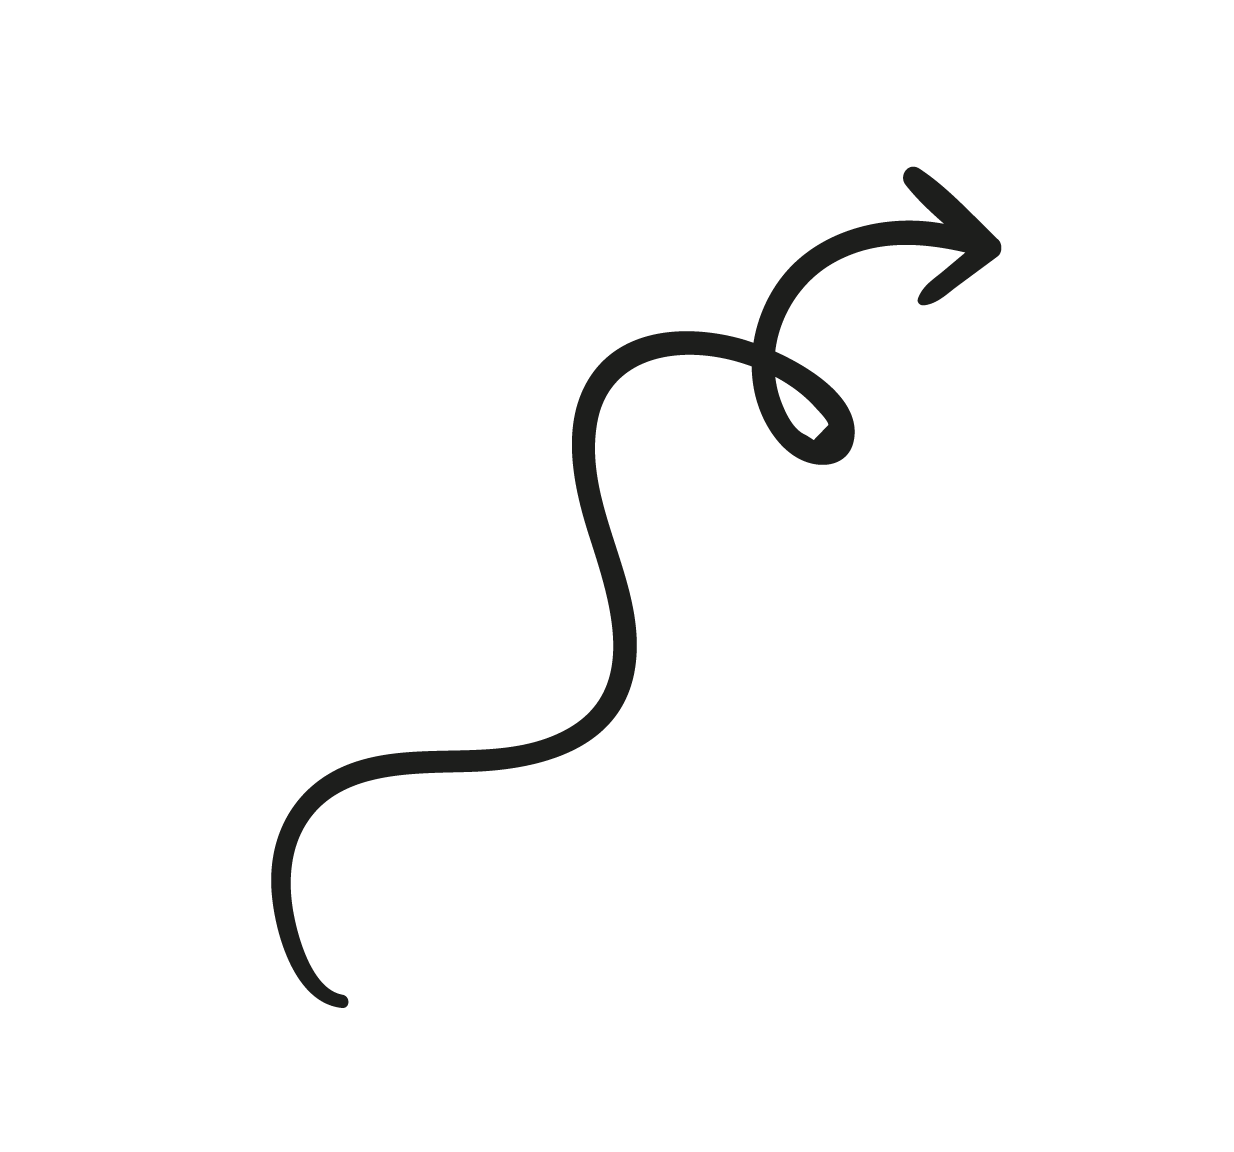
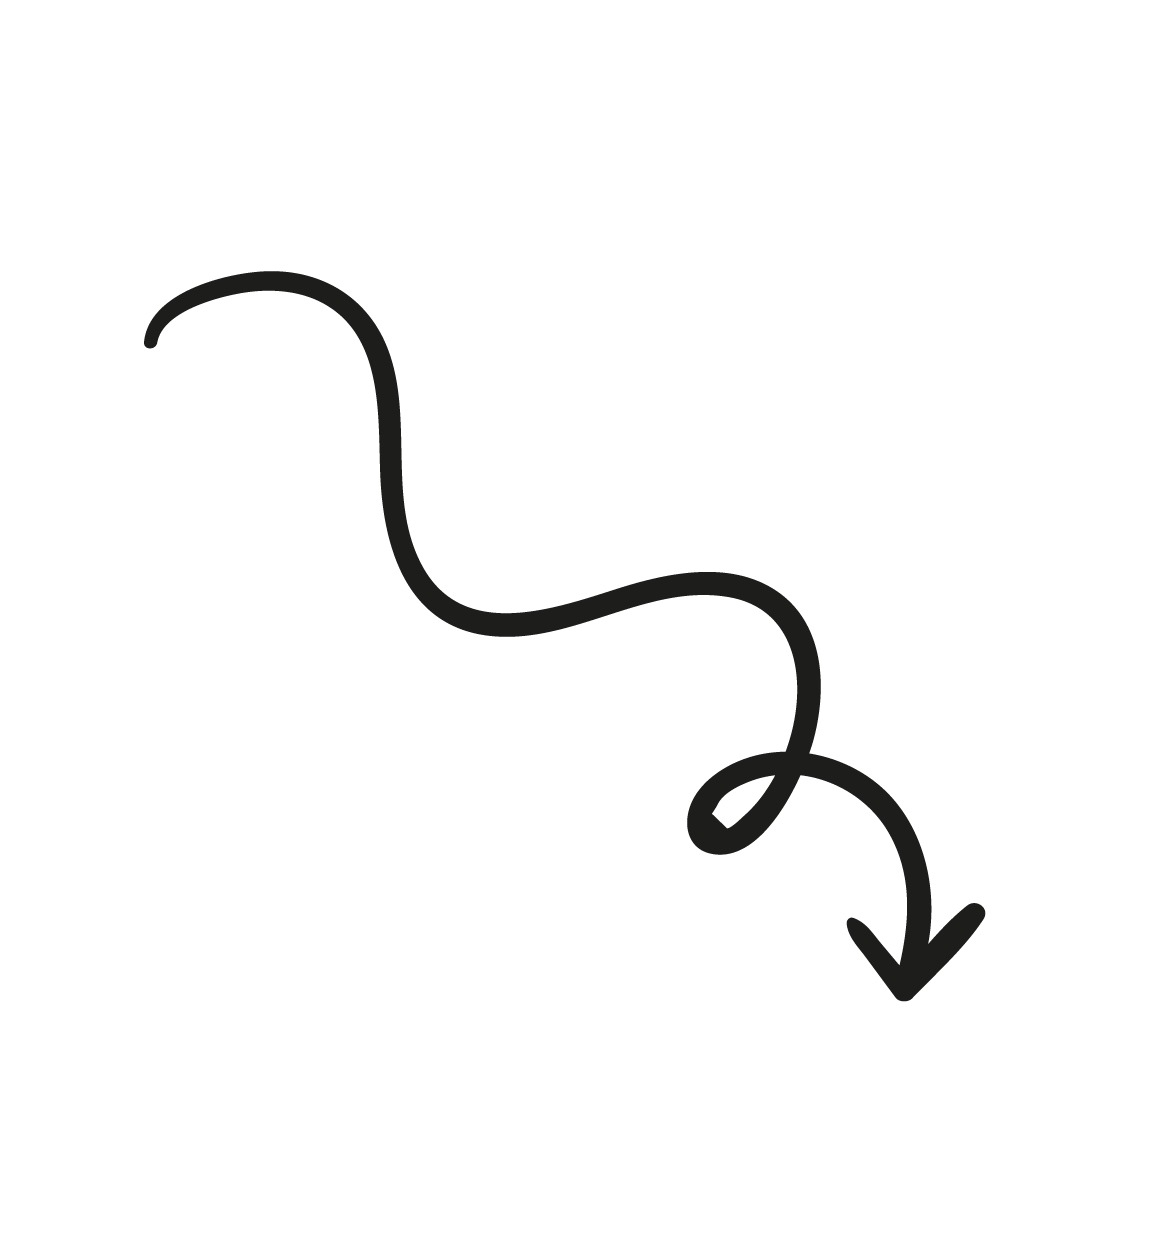
feat: add decorative arrow after heart in OUR STORY section title

Changed region(s): [[0.125, 0.125, 0.875, 0.875]]

diff --git a/src/app/page.tsx b/src/app/page.tsx
@@ -310,7 +310,7 @@ export default function HomePage() {
       </section>
 
       {/* Combined Life at Mamalu + Video Section */}
-      <section className="mamalu-life-section section py-12 md:py-20 bg-white">
+      <section className="mamalu-life-section pt-3 pb-0 md:pt-6 md:pb-0 bg-white">
         <div className="container px-4 md:px-6">
           {/* Top row: video left, title right */}
           <div className="grid grid-cols-1 md:grid-cols-2 gap-3 md:gap-4 mb-3 md:mb-4">
@@ -351,13 +351,22 @@ export default function HomePage() {
       </section>
 
       {/* Founder Section */}
-      <section className="founder-section section py-12 md:py-24 lg:py-32 bg-white">
+      <section className="founder-section pt-16 pb-6 md:pt-16 md:pb-12 lg:pt-20 lg:pb-16 bg-white">
         <div className="container px-4 md:px-6">
           {/* Section Title */}
-          <h2 className="text-center mb-8 md:mb-16" style={{ fontFamily: 'var(--font-mossy), cursive', fontWeight: 900 }}>
-            <span className="text-3xl md:text-4xl lg:text-5xl tracking-wide text-black">OUR STORY</span>
-            <span className="inline-block ml-2 text-[#f5d5d0]">❤</span>
-          </h2>
+          <div className="relative text-center mb-8 md:mb-16">
+            <h2 style={{ fontFamily: 'var(--font-mossy), cursive', fontWeight: 900 }}>
+              <span className="text-3xl md:text-4xl lg:text-5xl tracking-wide text-black">OUR STORY</span>
+              <span className="inline-block ml-2 text-[#f5d5d0]">❤</span>
+            </h2>
+            <Image
+              src="/images/arrow-01.png"
+              alt=""
+              width={200}
+              height={200}
+              className="absolute top-full left-[52%] -translate-x-1/4 -mt-6 pointer-events-none select-none"
+            />
+          </div>
           
           <div className="grid lg:grid-cols-2 gap-8 md:gap-12 lg:gap-16 items-start">
             {/* Image */}